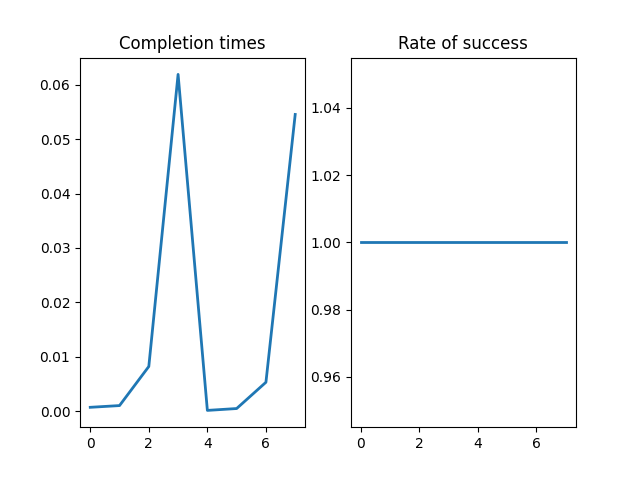
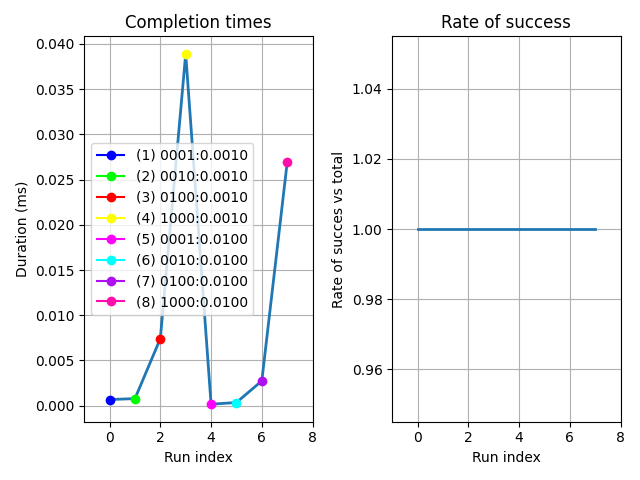
Refactor client code by updating the plot and message print to stdout

diff --git a/PyCalcClient.py b/PyCalcClient.py
@@ -51,7 +51,7 @@ def run(ncalc, delay, host="127.0.0.1", port=5000, buflen=4096):
             sockfd.settimeout(delay)
             try:
                 response = sockfd.recv(buflen).decode("utf-8")
-                print(f" -> Received {response!r} from SimpleCalcServer")
+                # print(f" -> Received {response!r} from SimpleCalcServer")
             except socket.timeout:
                 response = "n"
             if response == "n":
@@ -60,12 +60,17 @@ def run(ncalc, delay, host="127.0.0.1", port=5000, buflen=4096):
                 response = response.strip().split()[1]
                 results.append(response)
             k += 1
+    rate = len([item for item in results if item != "n"])/len(results)
+    print(f"\t{ncalc:4d}, {delay:.5f}, {rate:.2f}")
     return results
 
 def main():
     """Main entry"""
+    random.seed(time.time())
     timings = []
     rates = []
+    ticklabels = []
+    k = 1
     for delay in (0.001, 0.01):
         for ncalc in (1, 10, 100, 1000):
             tic = time.time()
@@ -75,16 +80,41 @@ def main():
             rate = len([x for x in out if x != 'n']) / len(out)
             rates.append((ncalc, delay, rate))
             timings.append((ncalc, delay, runtime))
+            ticklabels.append(f"({k}) {ncalc:04d}:{delay:0.4f}")
+            k += 1
+        print()
 
     fig = plt.figure()
     ax1 = fig.add_subplot(1, 2, 1)
     x1data = [item[-1] for item in timings]
     ax1.plot(x1data, lw=2.0)
+    colors = (
+        "#0000ff", "#00ff00", "#ff0000",
+        "#ffff00", "#ff00ff", "#00ffff",
+        "#ae0ff0", "#ff0eab", "#000000"
+    )
+    for x in range(len(x1data)):
+        ax1.plot(
+            x, x1data[x], color=colors[x], marker="o", label=f"{ticklabels[x]}"
+        )
     ax1.set_title("Completion times")
+    ax1.set_xlim(-1, len(x1data))
+    ax1.set_ylabel("Duration (ms)")
+    ax1.set_xlabel("Run index")
+    ax1.grid()
+    ax1.legend()
+    #ax1.set_xticks(list(range(len(x1data))), ticklabels)
+    #ax1.set_xticklabels(ticklabels)
     ax2 = fig.add_subplot(1, 2, 2)
     x2data = [item[-1] for item in rates]
     ax2.plot(x2data, lw=2)
     ax2.set_title("Rate of success")
+    ax2.set_xlim(-1, len(x2data))
+    ax2.set_ylabel("Rate of succes vs total")
+    ax2.set_xlabel("Run index")
+    ax2.grid()
+    
+    plt.tight_layout(h_pad=1.1)
     plt.savefig("simplecalc.png")
     plt.show()
 
